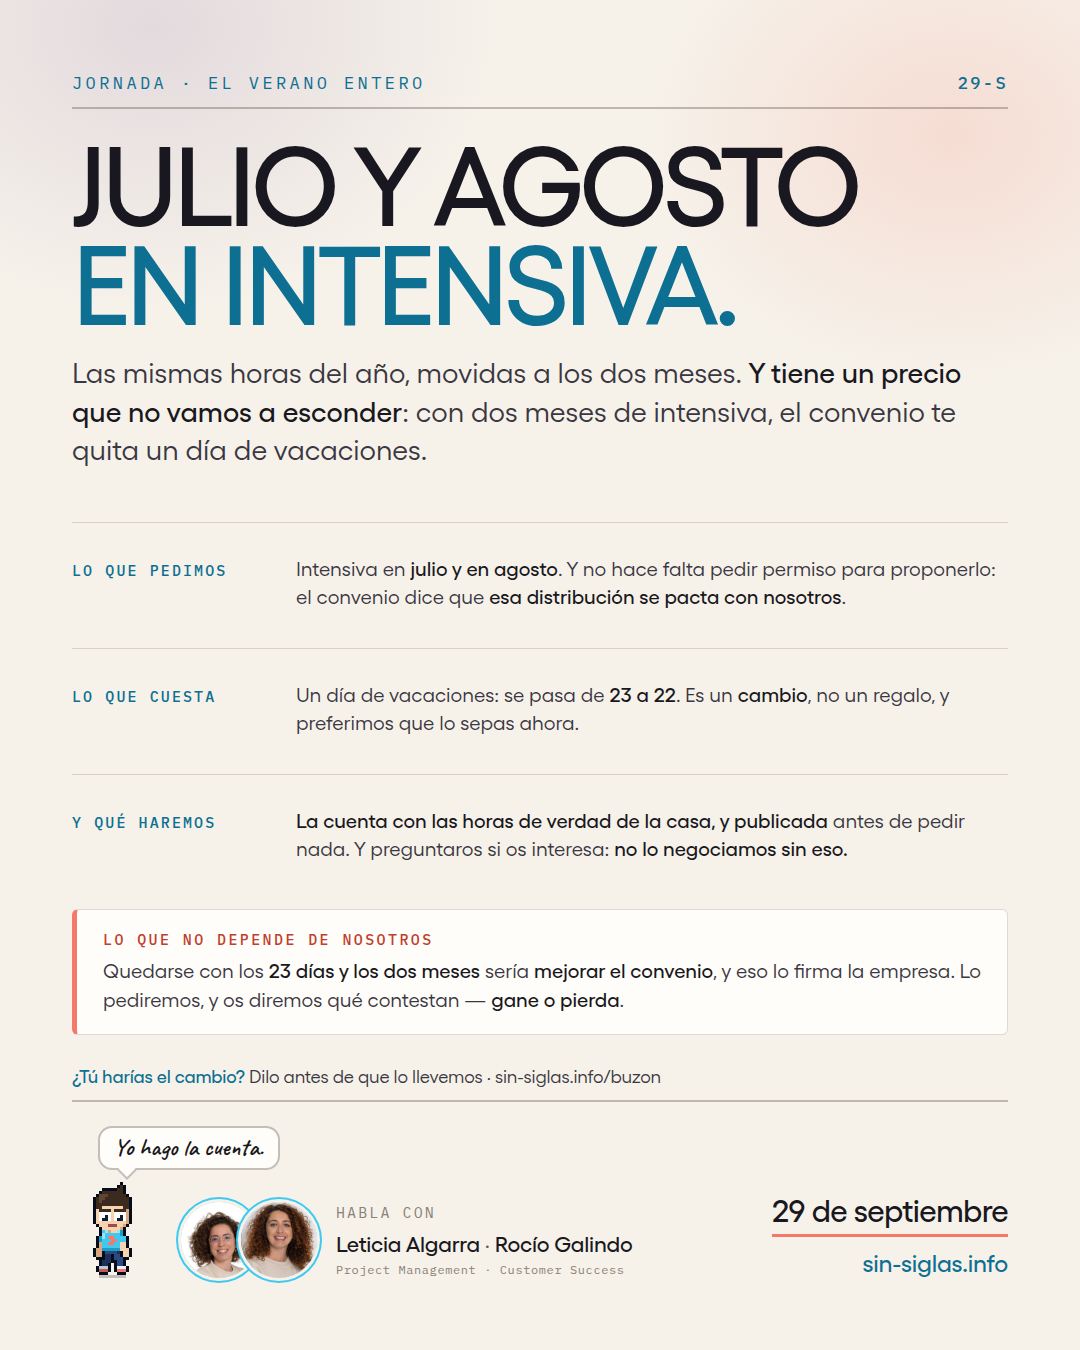
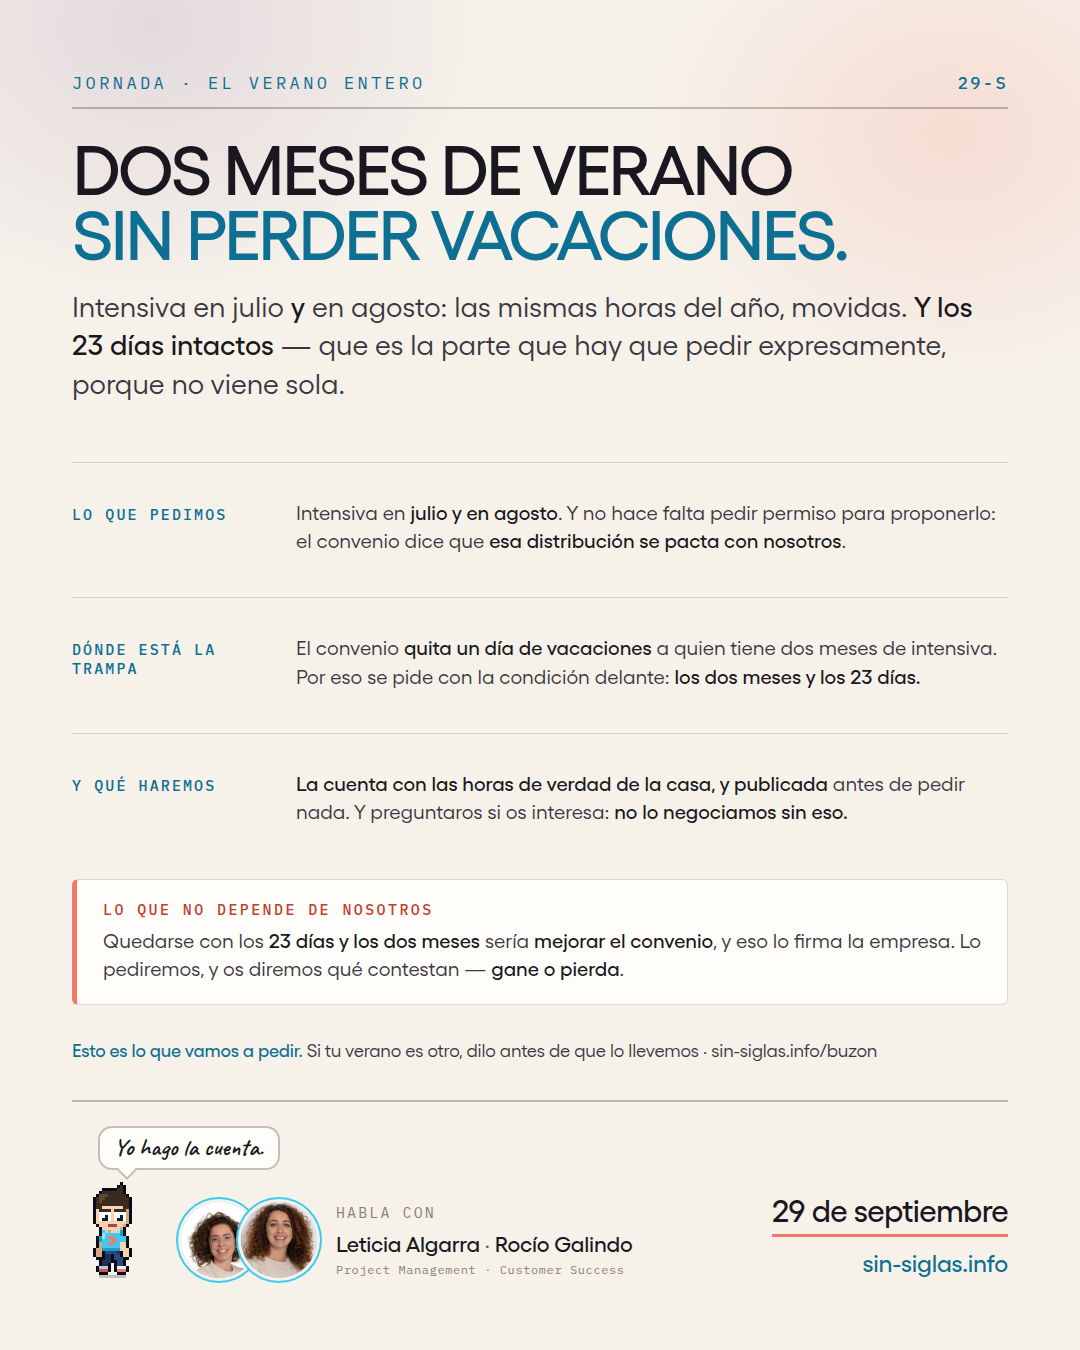
Los dos meses y los 23 días: el día de vacaciones no se negocia
La versión anterior planteaba esto como un trato —dos meses de intensiva
a cambio de un día de vacaciones— y no es lo que se quiere negociar. Se
quieren las dos cosas.

Eso cambia el sitio del art. 21.1 en la pieza: deja de ser el precio y
pasa a ser la trampa que hay que esquivar al redactar la petición. El
convenio baja de 23 a 22 días a quien tenga dos o más meses de intensiva,
así que pedir los dos meses sin la condición delante sale mal solo. Es
exactamente lo que demuestra que nos hemos leído el convenio, y por eso
la fila del medio se titula «dónde está la trampa».

Titular nuevo: el anterior describía la petición y no enganchaba. Ahora
lleva la oferta entera —dos meses de verano sin perder vacaciones— que es
lo que hay que decidir en la miniatura de un chat.

Y el panel del límite sigue diciendo lo que hay: quedarse con los dos
meses y los 23 días es mejorar el convenio, no aplicarlo, así que lo firma
la empresa. Lo pedimos y publicamos la respuesta, gane o pierda.

diff --git a/carteles/carteles.html b/carteles/carteles.html
@@ -774,10 +774,10 @@ body.diptico .cartel.elegido + .cartel.elegido{box-shadow:inset 2px 0 0 var(--li
 #c23 .pie{margin-top:auto}
 
 #c24 .bajada{margin-top:20px}
-#c24 .puertas{margin-top:52px;gap:36px}
-#c24 .puertas li{padding-top:32px}
-#c24 .limite{margin-top:46px}
-#c24 .recibo{margin-top:30px}
+#c24 .puertas{margin-top:58px;gap:42px}
+#c24 .puertas li{padding-top:36px}
+#c24 .limite{margin-top:52px}
+#c24 .recibo{margin-top:34px}
 #c24 .pie{margin-top:auto}
 </style>
 </head>
@@ -1983,13 +1983,20 @@ body.diptico .cartel.elegido + .cartel.elegido{box-shadow:inset 2px 0 0 var(--li
 <!-- ==================================================================
      EL VERANO ENTERO · julio y agosto, y la cuenta delante
      ------------------------------------------------------------------
-     Lo que se quiere negociar es intensiva en JULIO Y AGOSTO, los dos.
-     Y eso es exactamente el supuesto del art. 21.1 del convenio: dos o
-     más meses de jornada intensiva bajan las vacaciones de 23 a 22 días.
+     Lo que se quiere negociar es intensiva en JULIO Y AGOSTO, los dos,
+     Y SIN PERDER UN DÍA DE VACACIONES.
 
-     O sea que la petición no tiene una letra pequeña: TIENE UN PRECIO, y
-     está escrito en el convenio que ya nos aplica. De ahí sale la pieza:
-     no se esconde, se pone delante, y se pregunta antes de negociar.
+     Eso no es aplicar el convenio: es mejorarlo. El art. 21.1 baja de 23
+     a 22 días a quien tenga dos o más meses de jornada intensiva, así que
+     quedarse con los dos meses Y los 23 días hay que pedirlo expresamente
+     y lo tiene que firmar la empresa. Va dicho en el panel del límite.
+
+     Una versión anterior planteaba esto como un trato -- dos meses a
+     cambio de un día -- y estaba descartado: la candidatura no quiere
+     negociar el día, quiere las dos cosas. El día de vacaciones deja de
+     ser el precio y pasa a ser LA TRAMPA que hay que esquivar al
+     redactar la petición, que es lo que de verdad demuestra que nos hemos
+     leído el convenio.
 
      Leído del XIX Convenio (BOE-A-2025-7766), literal:
        · art. 20.1 -- 1.800 horas anuales, «su distribución semanal podrá
@@ -2025,10 +2032,10 @@ body.diptico .cartel.elegido + .cartel.elegido{box-shadow:inset 2px 0 0 var(--li
 <section class="cartel" id="c24">
   <div class="tapa"><span>Jornada &middot; el verano entero</span><b>29-S</b></div>
 
-  <h1 class="titular titular--corto">Julio y agosto<em>en intensiva.</em></h1>
+  <h1 class="titular titular--largo">Dos meses de verano<em>sin perder vacaciones.</em></h1>
   <p class="bajada bajada--ancha">
-    Las mismas horas del año, movidas a los dos meses. <b>Y tiene un precio que no vamos a
-    esconder</b>: con dos meses de intensiva, el convenio te quita un día de vacaciones.
+    Intensiva en julio <b>y</b> en agosto: las mismas horas del año, movidas. <b>Y los 23 días
+    intactos</b> — que es la parte que hay que pedir expresamente, porque no viene sola.
   </p>
 
   <ul class="puertas">
@@ -2038,9 +2045,9 @@ body.diptico .cartel.elegido + .cartel.elegido{box-shadow:inset 2px 0 0 var(--li
         convenio dice que <b>esa distribución se pacta con nosotros</b>.</p>
     </li>
     <li>
-      <strong>Lo que cuesta</strong>
-      <p>Un día de vacaciones: se pasa de <b>23 a 22</b>. Es un <b>cambio</b>, no un regalo, y
-        preferimos que lo sepas ahora.</p>
+      <strong>Dónde está la trampa</strong>
+      <p>El convenio <b>quita un día de vacaciones</b> a quien tiene dos meses de intensiva. Por eso
+        se pide con la condición delante: <b>los dos meses y los 23 días.</b></p>
     </li>
     <li>
       <strong>Y qué haremos</strong>
@@ -2055,8 +2062,8 @@ body.diptico .cartel.elegido + .cartel.elegido{box-shadow:inset 2px 0 0 var(--li
       firma la empresa. Lo pediremos, y os diremos qué contestan — <b>gane o pierda</b>.</p>
   </div>
 
-  <p class="recibo"><b>¿Tú harías el cambio?</b> Dilo antes de que lo llevemos &middot;
-    sin-siglas.info/buzon</p>
+  <p class="recibo"><b>Esto es lo que vamos a pedir.</b> Si tu verano es otro, dilo antes de que lo
+    llevemos &middot; sin-siglas.info/buzon</p>
 
   <footer class="pie">
     <div class="compi"><p class="compi__globo">Yo hago la cuenta.</p><canvas data-pose="serio" data-tt="900"></canvas></div>
